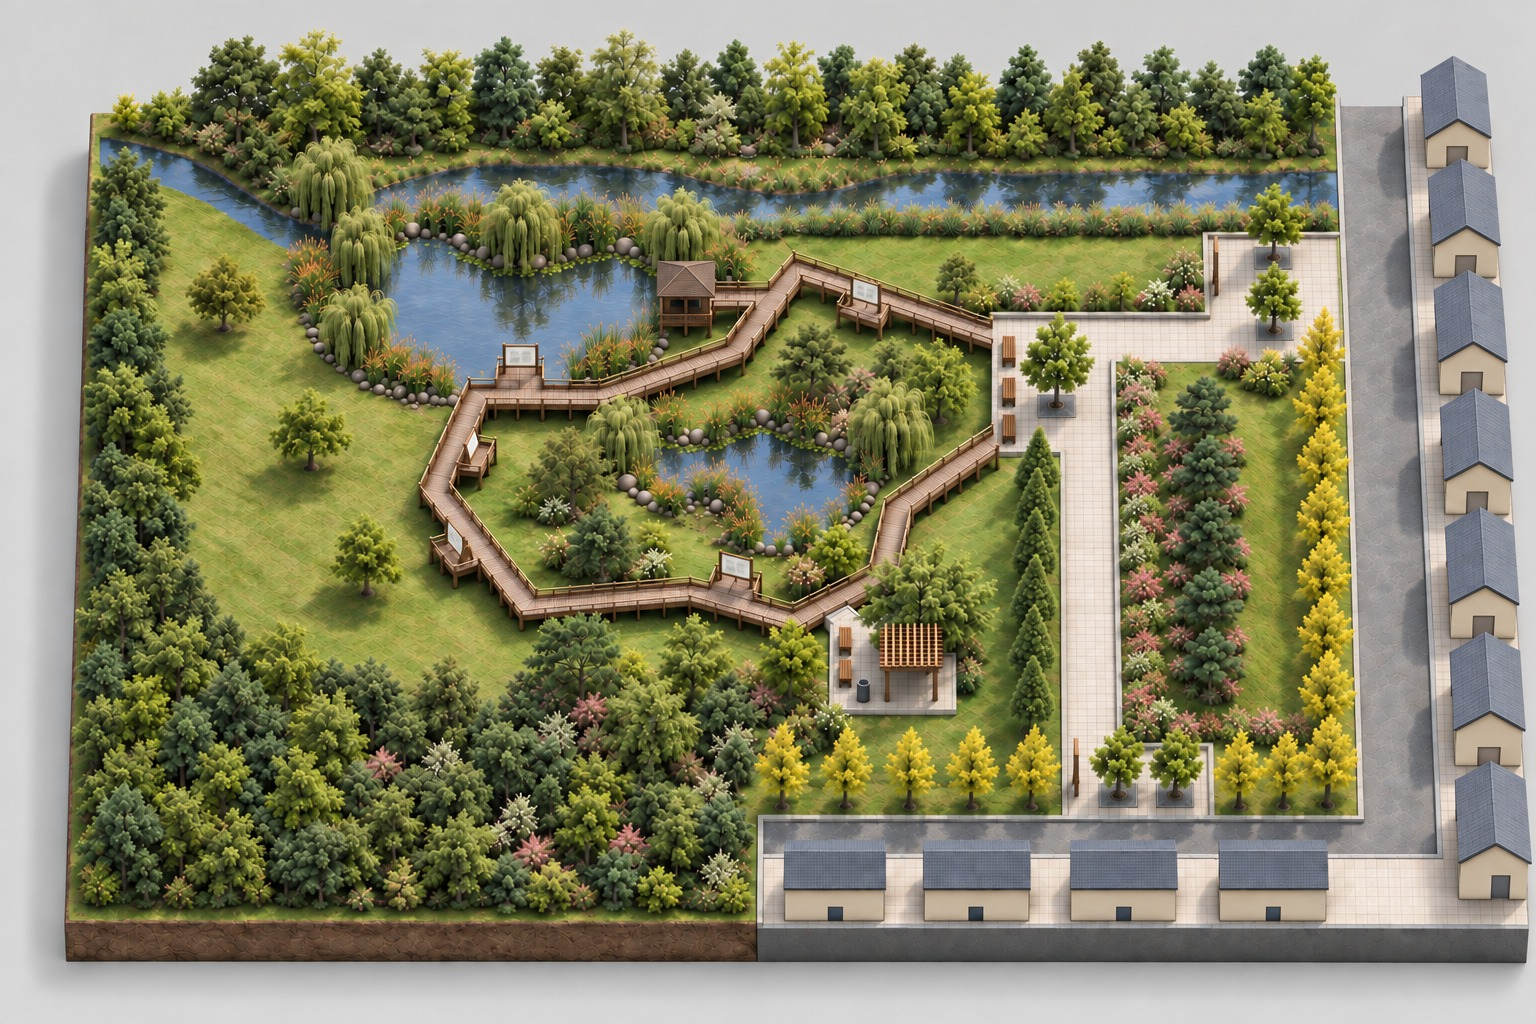
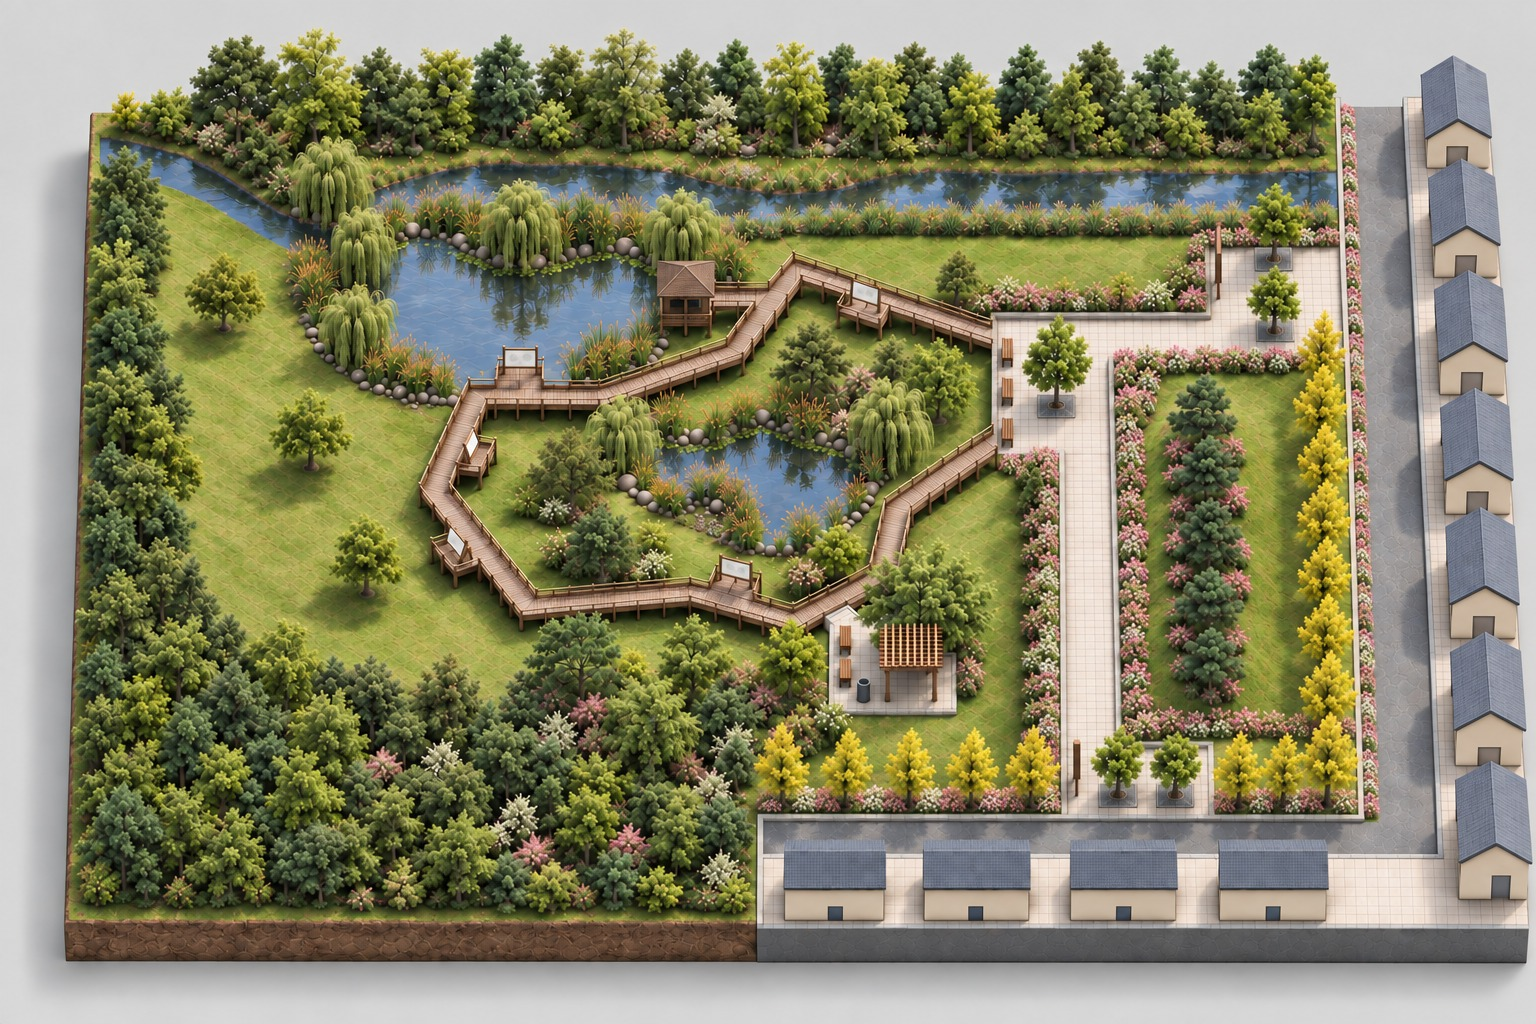
조감도·입체평면도 401: 경계식재를 철쭉으로 (침엽수 줄 걷어냄)
사용자가 성운 배식도의 설계 의도를 짚어 주었다 — "철쭉을 경계식재로 심고,
둔덕에는 소나무, 상부에는 벚나무, 외곽에는 은행나무를 심었음". 그런데 두
그림 모두 포장 가장자리를 따라 키 큰 원뿔형 침엽수(측백 울타리 같은) 줄이
촘촘히 서 있었다. 수량표에도 철쭉이 540주 H0.5 x W0.6 으로 가장 많다.

침엽수 줄을 모두 지우고 무릎 높이의 낮은 꽃관목 띠로 바꿨다. 프롬프트의
'유지 항목'에 남아 있던 메타세쿼이아 두 줄(조감도)·메타세쿼이아 열식
(입체평면도) 문구도 함께 걷어냈다 — 그대로 두면 새 지시와 서로 밀어낸다.
둔덕 소나무·상부 벚나무·외곽 은행나무 열식은 그대로다.

선명도는 둘 다 기준 안이고 입체평면도는 오히려 올랐다:
  조감도     14회차 3184 → 15회차 3053  (기준 2500)
  입체평면도 23회차 1115 → 24회차 1308  (기준 905)
입체평면도 평행투영 유지 — 좌변 -14px · 우변 +31px, 동측 도로 띠 왼끝
1367·1372·1376px(간격은 종전과 같고 모형 전체가 14px 옮겨 앉았다).

My 조감도는 탭에서 걷어내어 손대지 않았다.

diff --git a/_ls_drawing_refs/401_입체평면도/content.md b/_ls_drawing_refs/401_입체평면도/content.md
@@ -1,5 +1,5 @@
 'My' 탭의 색 배치도와 '성운' 탭의 **기본설계도 · 배식설계도**를 GPT 이미지 모델
-(gpt-image-2.5-sunburst)에 주고 만든 **입체평면도**입니다(23회차).
+(gpt-image-2.5-sunburst)에 주고 만든 **입체평면도**입니다(24회차).
 
 '조감도' 탭과 달리 **원근이 없는 평행투영(축측투영)** 입니다. 멀리 있는 것도 가까이 있는 것과
 같은 크기로 그려지므로 **평면도와 그대로 견주어 볼 수 있습니다** — 주택 여덟 채가 모두 같은
@@ -79,6 +79,7 @@
     하나씩**입니다. 선명도 1052, 평행투영 그대로
 22. 90° 를 돌리고 나니 판이 **누워** 평의자처럼 보인다는 지적 — 방향은 그대로 두고 **다리 위에 곧게 선 판**으로 모양만 고쳤습니다. 선명도 1028, 평행투영 그대로
 23. "판면이 비스듬히 보이고"라고 적은 탓에 모델이 **방향을 되돌려** 카메라를 마주 보게 했습니다. **방향이 최우선**임을 못박고 "좁은 옆면이 보이는 것이 맞다"로 바꾸었습니다(23회차). 선명도 1115
+24. 포장 가장자리의 **키 큰 침엽수 줄**을 모두 걷어내고 **철쭉 경계식재**(무릎 높이 꽃관목 띠)로 바꿨습니다 — 성운 배식도의 의도가 "철쭉을 경계식재로, 둔덕에는 소나무, 상부에는 벚나무, 외곽에는 은행나무"이기 때문입니다(24회차). 선명도 1308
 
 > 회차마다 색 배치도와 배식설계도를 첫 두 참고 그림으로 다시 주고, 앞 회차 그림을 셋째로 줍니다.
 > 마스크 부분 수정이나 그림을 손으로 자르고 돌리는 일은 하지 않습니다.
@@ -101,7 +102,7 @@
 10회차 1351·1349·1361px, 16회차 1353·1356·1361px 로 같고, 모형 왼쪽 변 기울기도
 10회차 −18px, 16회차 −16px(730px 기준)로 같습니다.
 
-## 도면과 대조 (23회차)
+## 도면과 대조 (24회차)
 
 | 항목 | 도면 | 그림 |
 | --- | --- | --- |
@@ -122,19 +123,20 @@
 | 안내판 판면 | — | ✓ 아주 연한 미색에 **읽히지 않는 흐린 무늬** — 옆 포장과 비슷한 밝기 |
 | 안내판 방향·수 | — | ✓ 진입광장 안내판은 **포장·관목 경계선과 나란히**, 광장마다 **1개씩**. 관찰데크 5 · 조류관찰소 1 은 그대로 |
 | 안내판 모양 | — | ✓ 안내판은 판의 긴 변이 **포장과 관목의 경계선과 나란**해서, 이 시점에서는 **좁은 옆면이 보입니다** — 판면이 안 보이는 것이 맞습니다. 안내판임은 **가는 다리 둘 · 판 아래의 빈 틈 · 바닥에 지는 선 판의 그림자**로 알아봅니다. 걸상은 앉는 면이 바닥 가까이 낮게 깔려 아래로 빛이 통하지 않으니, 둘이 뚜렷이 다릅니다. |
+| 배식 의도 | 철쭉을 **경계식재**로, 둔덕에는 **소나무**, 상부에는 **벚나무**, 외곽에는 **은행나무** 열식 (성운 배식도 · 철쭉 540주 H0.5×W0.6 으로 가장 많음) | ✓ 포장 가장자리의 키 큰 침엽수 줄을 모두 걷어내고 **무릎 높이 철쭉 띠**로 바꿨습니다 |
 | 글자 | 없음 | ✓ |
 
 남은 차이는 둘입니다. ① **저수지가 도면보다 조금 동쪽·넓습니다**(도면 부지 폭의 14~44%, 그림 약 19~50%). ② **남측 도로가 55% 지점에서 시작**합니다(도면 50%).
 
-비용은 23장 약 $1.21 입니다(16~23회차만 `xhigh` 품질이라 장당 $0.074).
+비용은 24장 약 $1.28 입니다(16~24회차만 `xhigh` 품질이라 장당 $0.074).
 
-## 프롬프트 — 마지막 회차(23회차, 참고: 색 배치도 + 배식설계도 + 13회차 그림)
+## 프롬프트 — 마지막 회차(24회차, 참고: 색 배치도 + 배식설계도 + 13회차 그림)
 
-13회차 그림을 함께 주고 고칠 넷만 적은 것입니다. 1~22회차 프롬프트는 뺐습니다.
+13회차 그림을 함께 주고 고칠 넷만 적은 것입니다. 1~23회차 프롬프트는 뺐습니다.
 
     The FIRST attached image is the colour-coded site plan of a small Korean ecological park. The SECOND is its hand-drawn planting plan. The THIRD attached image is a PHOTOREALISTIC axonometric render of the same park. Its LAYOUT, its CAMERA, its PARALLEL PROJECTION, its MATERIALS, its TEXTURES, its LIGHTING and every one of its objects are CORRECT and must be reproduced exactly. It stays photorealistic.
 
-    Four things are wrong. Fix exactly these four. Change nothing else at all.
+    Five things are wrong. Fix exactly these five. Change nothing else at all.
 
     FIX 1 — THE MISSING SHRUB EDGING ON THE MOUND.
     Find the long grassy mound: the low turf hill in the open lawn east of the straight block-paved path, the one planted with seven pines and pink azaleas down its middle. Its LEFT side, where the turf meets the block paving of the path, is at present BARE GRASS, with only two or three loose clumps of shrubs at its top end and one near its bottom end.
@@ -173,6 +175,17 @@
 
     DO NOT TOUCH THE BOARDS ON THE BOARDWALK. The 5 small boards on the 5 timber viewing platforms and the 1 board beside the bird-watching hut are ALREADY RIGHT - each stands upright and runs along its own deck rail. Leave their shape, direction, position and size exactly as they are.
 
+    FIX 5 — THE PAVING EDGES ARE EDGED WITH LOW AZALEAS, NOT WITH TALL CONIFERS.
+    Along the edges of the block-paved plazas and of the straight block-paved path there stand at present ROWS OF TALL CONICAL CONIFERS, packed close together like a clipped hedge of cypress. DELETE EVERY ONE OF THEM - not one tall conifer is left anywhere along any paving edge.
+
+    In their place plant a dense BAND OF LOW FLOWERING SHRUBS - AZALEAS. They are KNEE HIGH, less than half the height of a person, and from this viewpoint the band reads as a LOW, FLAT RIBBON COVERED IN PINK AND WHITE BLOSSOM lying against the paving. NOTHING in that band rises up like a tree, and nothing in it is a cone or a spire. These azaleas are the commonest plant in the whole scheme, so the band is broad and continuous.
+
+    THE REST OF THE PLANTING STAYS EXACTLY AS IT IS - do not delete it and do not move it:
+      - PINES on the long grassy mound: seven of them, spreading, dark blue-green.
+      - CHERRY TREES at the upper (northern) end of the mound.
+      - GINKGOS in a single evenly spaced row along the OUTER boundary of the site beside the roads, in yellow autumn foliage.
+      - The willows and water plants at the pond edges, and the multi-layered woodland.
+
     SHARPNESS — RENDER THIS FRESH AT FULL RESOLUTION AND FULL DETAIL.
     Do not retouch or resample the third image: draw the whole picture again from scratch. Every part of it must be at least as crisp and as finely detailed as the third image is — the individual leaves in every canopy, the blades and mowing stripes in the turf, the board joints and grain of the boardwalk, the joints of the block paving, the roof tiles of the houses, the pebbles at the water edge. Nothing may come out softer, blurrier, smoother or more washed out than in the third image.
 
@@ -186,11 +199,11 @@
     - PARALLEL (axonometric) projection. NO perspective, NO vanishing point, NO convergence anywhere.
     - The ground slab is a PARALLELOGRAM, never a trapezoid: far edge and near edge exactly the same length and exactly horizontal; left and right edges exactly the same length and exactly vertical. The model is NOT wider at the bottom of the picture than at the top.
     - The right-hand road is a band of CONSTANT width from the top of the picture to the bottom; its two kerb lines straight and parallel. The same for the bottom road.
-    - Every house is exactly the SAME size, near the top of the picture or near the bottom. The same for every ginkgo in its row, every dawn redwood in its row, every paving block, every tree grate.
-    - Every line running far-to-near in the plan — the right-hand road, the straight path, the dawn redwood row, the ginkgo row, the mound — runs in one single direction and never converges with the others. Every line running left-to-right — the stream, the bottom road, the plaza kerbs — runs in one single other direction.
+    - Every house is exactly the SAME size, near the top of the picture or near the bottom. The same for every ginkgo in its row, every paving block, every tree grate.
+    - Every line running far-to-near in the plan — the right-hand road, the straight path, the ginkgo row, the mound — runs in one single direction and never converges with the others. Every line running left-to-right — the stream, the bottom road, the plaza kerbs — runs in one single other direction.
     - All vertical edges exactly vertical in the picture and exactly parallel to one another.
     - The camera stays 45 degrees above the ground, the slab's DEPTH foreshortened to 0.71 of true, exactly as in the third image. Same framing and orientation: stream and reservoir at the TOP, narrow woodland strip and forest on the LEFT and lower left, road and houses on the RIGHT, second road and houses along the BOTTOM RIGHT. Do not rotate, flip, zoom or crop.
 
-    EVERYTHING ELSE IS EXACTLY AS IN THE THIRD IMAGE: the stream across the top with wooded hillside beyond; the reservoir with its willows, reed beds and shoreline stones; the wetland pond; ONE closed angular ring of raised timber boardwalk with EXACTLY 5 viewing platforms, each carrying one board with a pale off-white panel; EXACTLY 1 bird-watching hut on the reservoir's lower-right shore; the rest area with EXACTLY 1 pergola, 2 benches and 1 litter bin under shade trees; the gathering plaza with its EXACTLY 1 tree in a square grate; EXACTLY 2 trees in grates and 1 blank board on the top-right entrance plaza; EXACTLY 2 trees in grates and 1 blank board on the bottom entrance plaza — FIVE tree grates in all; ONE single row of about 12 dawn redwoods on the grass immediately LEFT of the straight path; ONE single row of ginkgos inside the right-hand road continuing inside the bottom road; open mown lawn west of the ring and west of the reservoir with only three or four isolated specimen trees; the dense multi-layered woodland only in the lower left and lower middle.
+    EVERYTHING ELSE IS EXACTLY AS IN THE THIRD IMAGE: the stream across the top with wooded hillside beyond; the reservoir with its willows, reed beds and shoreline stones; the wetland pond; ONE closed angular ring of raised timber boardwalk with EXACTLY 5 viewing platforms, each carrying one board with a pale off-white panel; EXACTLY 1 bird-watching hut on the reservoir's lower-right shore; the rest area with EXACTLY 1 pergola, 2 benches and 1 litter bin under shade trees; the gathering plaza with its EXACTLY 1 tree in a square grate; EXACTLY 2 trees in grates and 1 blank board on the top-right entrance plaza; EXACTLY 2 trees in grates and 1 blank board on the bottom entrance plaza — FIVE tree grates in all; ONE single row of ginkgos inside the right-hand road continuing inside the bottom road; open mown lawn west of the ring and west of the reservoir with only three or four isolated specimen trees; the dense multi-layered woodland only in the lower left and lower middle.
 
     STRICT RULES: no new buildings, plazas, paths, bridges, fences, walls, cars or people; NO text, letters, numbers, labels, legends, arrows, north arrow, scale bar, grid lines, dimension lines or watermark anywhere in the picture. The ONLY exception is the very faint, blurred, unreadable grey markings on the signboard panels described above - they must stay illegible.

diff --git a/_ls_drawing_refs/401_조감도/content.md b/_ls_drawing_refs/401_조감도/content.md
@@ -1,5 +1,5 @@
 '성운' 탭의 **답안지 II · 기본설계도**와 **답안지 III · 배식설계도**, 문제지 조건으로 만든 **입체 조감도**입니다.
-**GPT**(gpt-image-2.5-sunburst, 14회차)로 그렸습니다. 남동쪽 상공에서 북서쪽을 내려다본 시점이라 **도면의 북쪽이 그림의 위**입니다 —
+**GPT**(gpt-image-2.5-sunburst, 15회차)로 그렸습니다. 남동쪽 상공에서 북서쪽을 내려다본 시점이라 **도면의 북쪽이 그림의 위**입니다 —
 실개천이 위, 기존수림이 왼쪽, 6m 도로와 주택가가 오른쪽·아래입니다.
 
 ## 만든 방법 — 1회차 그림에서 **한 번에**
@@ -25,12 +25,13 @@
    안내판은 도면대로 **진입광장마다 하나씩**입니다
 6. 90° 를 돌리고 나니 판이 **누워** 평의자처럼 보인다는 지적이 나왔습니다(13회차). 방향은 그대로 두고 **다리 위에 곧게 선 판**으로 모양만 고쳤습니다 — 같은 그림의 갈색 평의자와 견줘 뚜렷이 달라야 한다고 적었습니다
 7. 그런데 "**미색 판면이 비스듬히 보이고**"라고 적은 탓에 모델이 판면을 보이려고 **방향을 되돌려** 카메라를 마주 보게 했습니다(사용자 지적). 14회차에서 **방향이 최우선**임을 못박고 "이 시점에서는 판의 **좁은 옆면**이 보이는 것이 맞다, 판면이 안 보여도 괜찮다"고 바꿔 적었습니다. 대신 안내판임을 알리는 것으로 **다리 둘 · 판 아래 빈 틈 · 선 판의 그림자** 셋을 요구했습니다
+8. 식재가 틀렸습니다(사용자 지적) — 포장 가장자리를 따라 **키 큰 원뿔형 침엽수 줄**이 서 있었는데, 그 자리는 **철쭉 경계식재**여야 합니다. 성운 배식도의 의도는 "철쭉을 경계식재로, 둔덕에는 소나무, 상부에는 벚나무, 외곽에는 은행나무"이고 수량표에도 철쭉이 540주로 가장 많습니다. 침엽수 줄을 모두 지우고 **무릎 높이의 낮은 꽃관목 띠**로 바꿨습니다(15회차)
 
 > **덧그리기는 곧 화질입니다.** 고칠 것이 생기면 마지막 그림 위에 얹지 말고, **덧그림이 적은 앞 회차로 돌아가
 > 고칠 것을 모두 한 프롬프트에 모아** 다시 그리는 편이 낫습니다. 같은 방식으로 'My' 탭 조감도와 '입체평면도'도 고쳤습니다.
 > 마스크 부분 수정이나 그림을 손으로 자르고 돌리는 일은 하지 않습니다.
 
-## 도면과 대조 (14회차)
+## 도면과 대조 (15회차)
 
 | 도면(성운 답안) | 결과 |
 | --- | --- |
@@ -46,19 +47,20 @@
 | 안내판 판면 | ✓ 아주 연한 미색에 **읽히지 않는 흐린 무늬** — 옆 포장과 비슷한 밝기라 도드라지지 않습니다 |
 | 안내판 방향·수 | ✓ 진입광장 안내판은 **포장·관목 경계선과 나란히**, 광장마다 **1개씩**. 관찰데크 5 · 조류관찰소 1 은 그대로 |
 | 안내판 모양 | ✓ 안내판은 판의 긴 변이 **포장과 관목의 경계선과 나란**해서, 이 시점에서는 **좁은 옆면이 보입니다** — 판면이 안 보이는 것이 맞습니다. 안내판임은 **가는 다리 둘 · 판 아래의 빈 틈 · 바닥에 지는 선 판의 그림자**로 알아봅니다. 걸상은 앉는 면이 바닥 가까이 낮게 깔려 아래로 빛이 통하지 않으니, 둘이 뚜렷이 다릅니다. |
+| 배식 의도 | 철쭉을 **경계식재**로, 둔덕에는 **소나무**, 상부에는 **벚나무**, 외곽에는 **은행나무** 열식 (성운 배식도 · 철쭉 540주 H0.5×W0.6 으로 가장 많음) | ✓ 포장 가장자리의 키 큰 침엽수 줄을 모두 걷어내고 **무릎 높이 철쭉 띠**로 바꿨습니다 |
 | 글자 없음 | ✓ |
 
-비용은 14장 약 $0.76 입니다(8~14회차만 `xhigh` 품질이라 장당 $0.074).
+비용은 15장 약 $0.84 입니다(8~15회차만 `xhigh` 품질이라 장당 $0.074).
 
-## 프롬프트 — 마지막 회차(14회차, 참고: 기본설계도 + 배식설계도 + 1회차 그림)
+## 프롬프트 — 마지막 회차(15회차, 참고: 기본설계도 + 배식설계도 + 1회차 그림)
 
-1회차 그림을 함께 주고 고칠 것을 한꺼번에 적은 것입니다. 1~13회차 프롬프트는 뺐습니다.
+1회차 그림을 함께 주고 고칠 것을 한꺼번에 적은 것입니다. 1~14회차 프롬프트는 뺐습니다.
 
     The FIRST attached image is the site and facilities plan of a small Korean ecological park (north is up in the drawing). The SECOND attached image is the planting plan of the same site. These two drawings are the ground truth for WHAT is where.
 
     The THIRD attached image is a photorealistic bird's-eye rendering of that park. Its CAMERA, its PERSPECTIVE, its FRAMING, its DAYLIGHT, its MATERIALS, its TEXTURES and its SHARPNESS are all EXACTLY RIGHT, and so is the overall layout. Copy all of that.
 
-    Redraw the third image, fresh and sharp, changing ONLY the twelve things listed below so that it matches the two drawings. Nothing else changes.
+    Redraw the third image, fresh and sharp, changing ONLY the thirteen things listed below so that it matches the two drawings. Nothing else changes.
 
     1. SOUTH ROAD — EAST HALF ONLY. The 6 m residential road along the bottom edge must run ONLY along the EASTERN HALF of that edge, from the south entrance plaza east to the corner. Along the WESTERN HALF there is NO road at all: the park's forest runs straight on into the wooded hill beyond. Delete the western part of the road and its kerbs and fill that ground with woodland.
 
@@ -101,13 +103,24 @@
 
     DO NOT TOUCH THE BOARDS ON THE BOARDWALK. The 5 small boards on the 5 timber viewing platforms and the 1 board beside the bird-watching hut are ALREADY RIGHT - each stands upright and runs along its own deck rail. Leave their shape, direction, position and size exactly as they are.
 
+    13. THE PAVING EDGES ARE EDGED WITH LOW AZALEAS, NOT WITH TALL CONIFERS.
+    Along the edges of the block-paved plazas and of the straight block-paved path there stand at present ROWS OF TALL CONICAL CONIFERS, packed close together like a clipped hedge of cypress. DELETE EVERY ONE OF THEM - not one tall conifer is left anywhere along any paving edge.
+
+    In their place plant a dense BAND OF LOW FLOWERING SHRUBS - AZALEAS. They are KNEE HIGH, less than half the height of a person, and from this viewpoint the band reads as a LOW, FLAT RIBBON COVERED IN PINK AND WHITE BLOSSOM lying against the paving. NOTHING in that band rises up like a tree, and nothing in it is a cone or a spire. These azaleas are the commonest plant in the whole scheme, so the band is broad and continuous.
+
+    THE REST OF THE PLANTING STAYS EXACTLY AS IT IS - do not delete it and do not move it:
+      - PINES on the long grassy mound: seven of them, spreading, dark blue-green.
+      - CHERRY TREES at the upper (northern) end of the mound.
+      - GINKGOS in a single evenly spaced row along the OUTER boundary of the site beside the roads, in yellow autumn foliage.
+      - The willows and water plants at the pond edges, and the multi-layered woodland.
+
     WHAT MUST NOT CHANGE:
     - The same camera and the same true perspective: an oblique aerial view from the SOUTH-EAST looking north-west, tilted about 45 degrees, with the stream at the top of the picture. The same framing and crop, the same late-spring daylight and soft shadows, the same colour balance.
     - The EAST ROAD keeps exactly the angle it has in the third image. Do NOT rotate it, do NOT make it parallel to the north-south path, do NOT straighten it.
     - The rectangular site and its surroundings: the rocky stream along the whole north edge with a wooded hill beyond; dense existing woodland filling the west side and the south-west; the 6 m road with low-rise houses along the east edge.
     - The reservoir pond in the north-west with its rocky, reedy shoreline and its willows; the timber bird-watching hide on its south-east shore; the marsh with its kidney-shaped pool, cattails, rushes and reeds and its soft planted bank; the angular timber boardwalk loop on posts with low rails.
-    - The multi-layered forest in the south-west with its winding earth trail; the block-paved gathering plaza and the two entrance plazas; the straight north-south block-paved path; the two lines of tall metasequoias flanking that path; the single row of yellow-green ginkgos along the east road; the willows, dogwoods, spiraea and wild roses at the water's edge.
+    - The multi-layered forest in the south-west with its winding earth trail; the block-paved gathering plaza and the two entrance plazas; the straight north-south block-paved path; the single row of yellow-green ginkgos along the east road; the willows, dogwoods, spiraea and wild roses at the water's edge.
 
-    RENDER IT FRESH AT MAXIMUM RESOLUTION AND MAXIMUM DETAIL — this matters as much as the twelve fixes. Draw the whole picture again; do not retouch, soften or resample the third image. Every part must be at least as crisp and as finely detailed as the third image: the individual leaves in every canopy, the blades of the turf, the grain and board joints of the boardwalk, the individual blocks of the paving, the rocks at the water's edge, the roof tiles of the houses. Do not simplify, smooth or average any texture.
+    RENDER IT FRESH AT MAXIMUM RESOLUTION AND MAXIMUM DETAIL — this matters as much as the thirteen fixes. Draw the whole picture again; do not retouch, soften or resample the third image. Every part must be at least as crisp and as finely detailed as the third image: the individual leaves in every canopy, the blades of the turf, the grain and board joints of the boardwalk, the individual blocks of the paving, the rocks at the water's edge, the roof tiles of the houses. Do not simplify, smooth or average any texture.
 
     STRICT RULES: no new buildings, plazas, paths, bridges, fences, walls, cars or people; NO text, letters, numbers, labels, legends, arrows, north arrow, scale bar, grid lines, dimension lines or watermark anywhere in the picture. The ONLY exception is the very faint, blurred, unreadable grey markings on the signboard panels described above - they must stay illegible.
